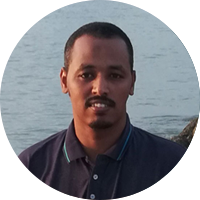
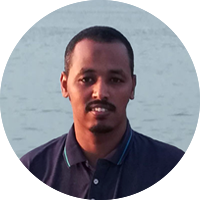
profile images

diff --git a/index.html b/index.html
@@ -91,18 +91,6 @@
 						<li class="nav-item">
 							<a class="nav-link" href="https://www.youtube.com/watch?v=s3wNuru4U0I&ab_channel=Oxygene80" target="_blank"><i class="fas fa-music fa-fw mr-2"></i>We Are The World</a>
 						</li>
-
-						<!-- li class="nav-item dropdown">
-							<a class="nav-link dropdown-toggle" href="#" id="navbarDropdown" role="button" data-toggle="dropdown" aria-haspopup="true" aria-expanded="false">
-								<i class="fas fa-cogs fa-fw mr-2"></i>More Pages
-							</a>
-							<div class="dropdown-menu" aria-labelledby="navbarDropdown">
-								<a class="dropdown-item" href="project.html">Project Page</a>
-								<a class="dropdown-item" href="blog-home.html">Blog Home 1</a>
-								<a class="dropdown-item" href="blog-home-alt.html">Blog Home 2</a>
-								<a class="dropdown-item" href="blog-post.html">Blog Post</a>
-							</div>
-						</li -->
 					</ul>
 					<br>
 					
@@ -129,7 +117,7 @@
 							<a class="btn btn-secondary mb-1" href="resume.html"><i class="fas fa-file-alt mr-2"></i><span class="d-none d-md-inline">View</span> Resume</a>
 						</div>
 					</div><!--//media-body-->
-					<img class="profile-image mb-3 mb-lg-0 ml-lg-5 mr-md-0" src="assets/images/profile-lg.jpg" alt="profile">
+					<img class="profile-image mb-3 mb-lg-0 ml-lg-5 mr-md-0" src="assets/images/OsamaPen.png" alt="profile">
 				</div>
 			</div>
 		</section><!--//about-me-section-->
